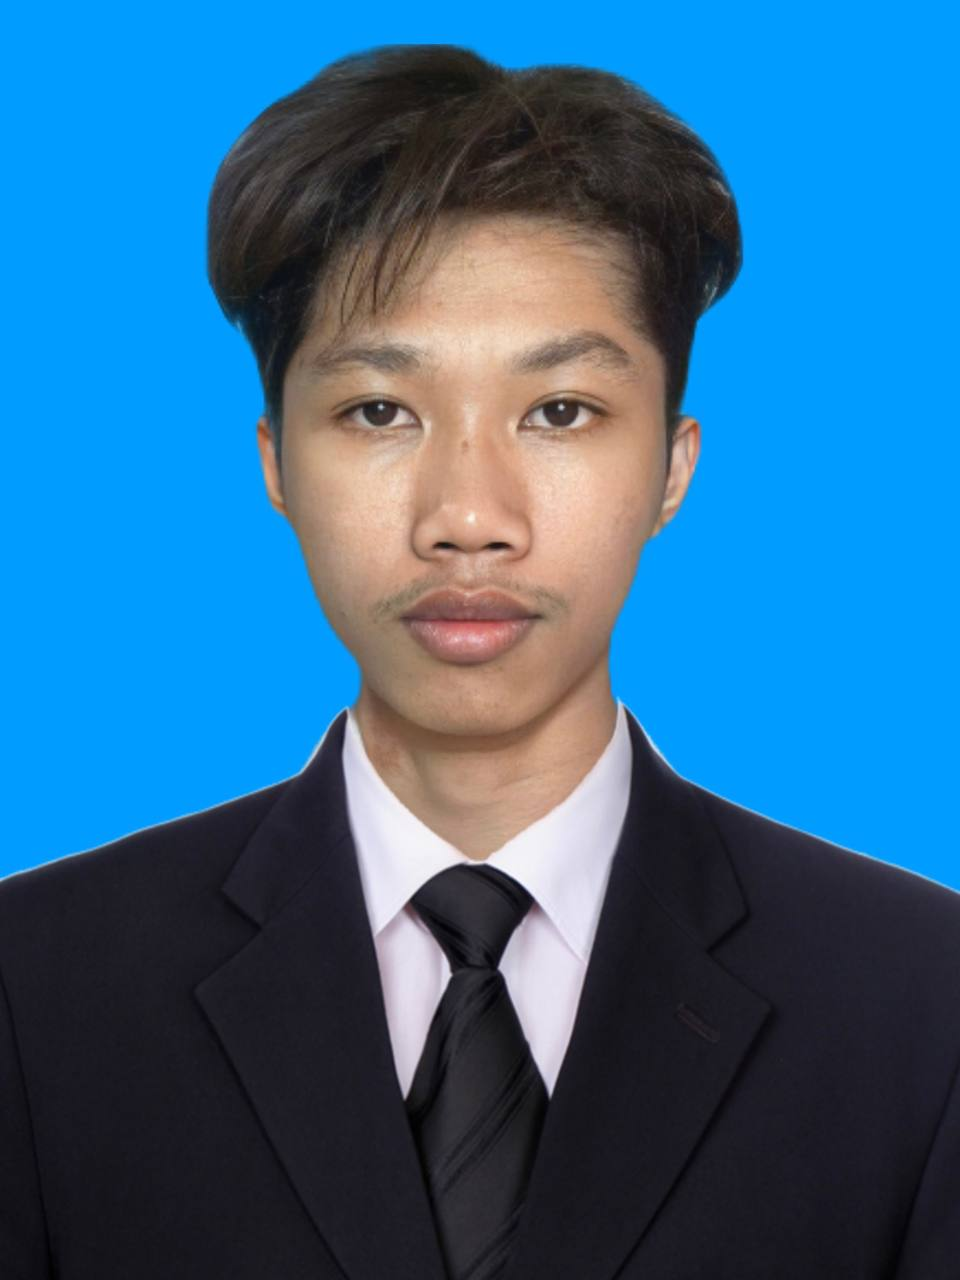
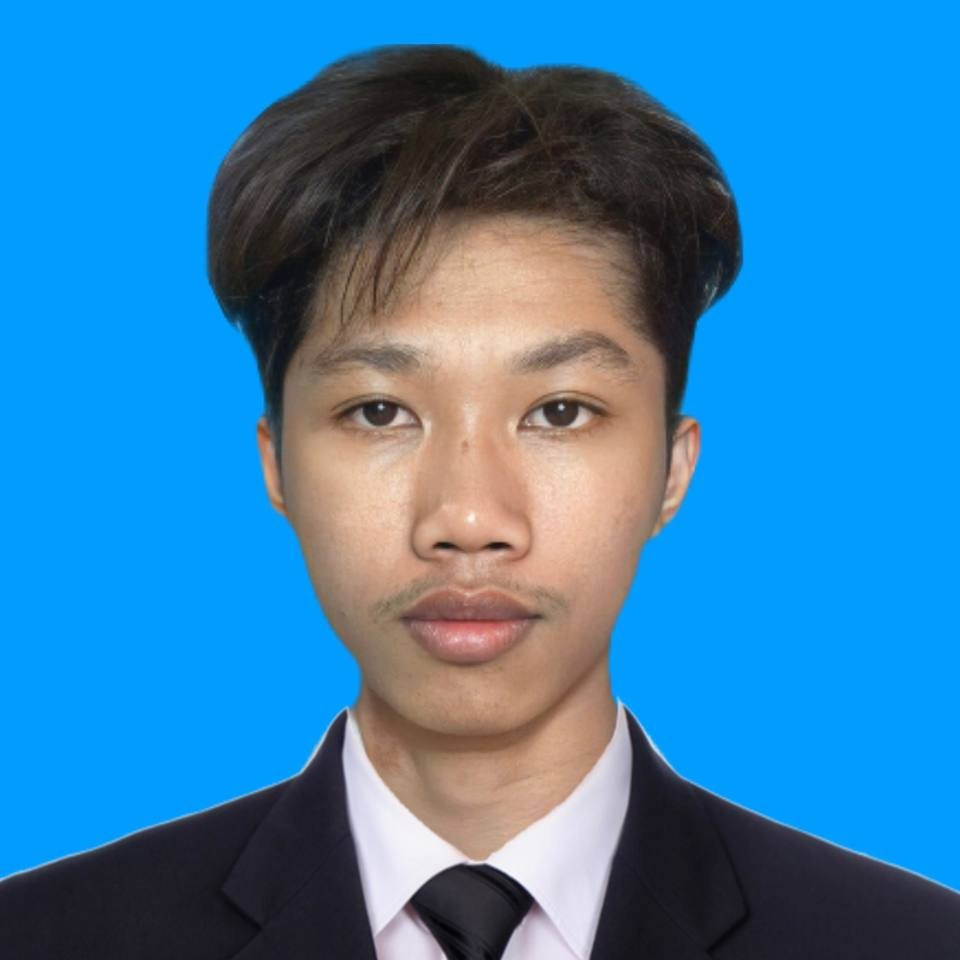
CV

diff --git a/style.css b/style.css
@@ -62,6 +62,15 @@ body{
     font-size: 11.17px;
 }
 
+/* Right Box */
+.box_right{
+    width: 60%;
+    margin-right: 50px;
+    margin-top: 30px;
+    z-index: 1;
+    height: 830px;
+}
+
 .box_right .border_right_1{
     background-color: rgb(240, 231, 232);
     width: 50%;
@@ -71,28 +80,6 @@ body{
     margin-left: 70px;
     margin-top: 25px;
     padding-top: 8px;
-}
-
-.box_right .border_right{
-    background-color: rgb(240, 199, 206);
-    width: 50%;
-    height: 30px;
-    border-radius: 50px;
-    font-weight: bold;
-    margin-left: 70px;
-    margin-top: 40px;
-    padding-top: 8px;
-}
-
-
-/* Right Box */
-.box_right{
-    width: 60%;
-    margin-right: 50px;
-    margin-top: 30px;
-    z-index: 1;
-    height: 830px;
-
 }
 
 .box_right h1{
@@ -107,8 +94,19 @@ body{
     text-align: justify;
     font-size: 13px;
     margin-bottom: -5px;
+
 }
 
+.box_right .border_right{
+    background-color: rgb(240, 199, 206);
+    width: 50%;
+    height: 30px;
+    border-radius: 50px;
+    font-weight: bold;
+    margin-left: 70px;
+    margin-top: 35px;
+    padding-top: 8px;
+}
 
 /* Bottom Background */
 .bottom{
@@ -117,7 +115,10 @@ body{
     z-index: 0;
 }
 
-
+.bottom_1{
+    height: 20px;
+    background-color: rgb(240, 199, 206);
+}
 
 
 

diff --git a/index.html b/index.html
@@ -16,7 +16,7 @@
 
         <div class="top">
             <div class="box_left">
-                <img src="./image/duck.jpg" alt="profile">
+                <img src="./image/photo_2024-08-22_17-40-12.jpg" alt="profile">
                 
                 <div class="border">
                     APPY FOR
@@ -84,15 +84,15 @@
                     SKILL
                 </div>
                 <div>
-
+                    <p>COMMUNICATION - TEAM WORK - COMPUTER</p>
+                    <p>BASIC CCNA - PROGRAMMING C,C++,Python</p>
                 </div>
 
             </div>
         </div>
 
-        <div class="bottom">
-            
-        </div>
+        <div class="bottom"></div>
+        <div class="bottom_1"></div>
 
     </div>
 </body>
